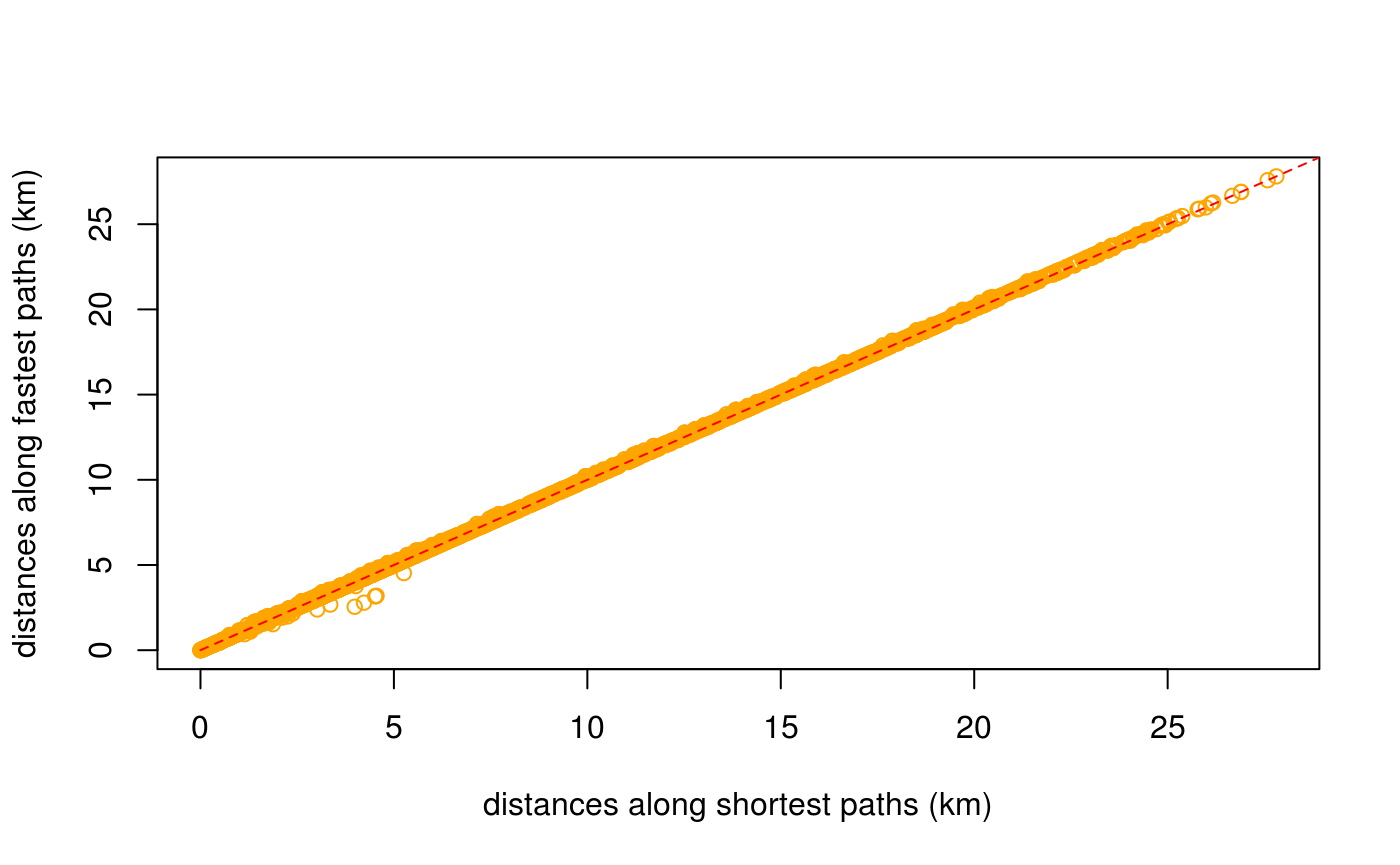
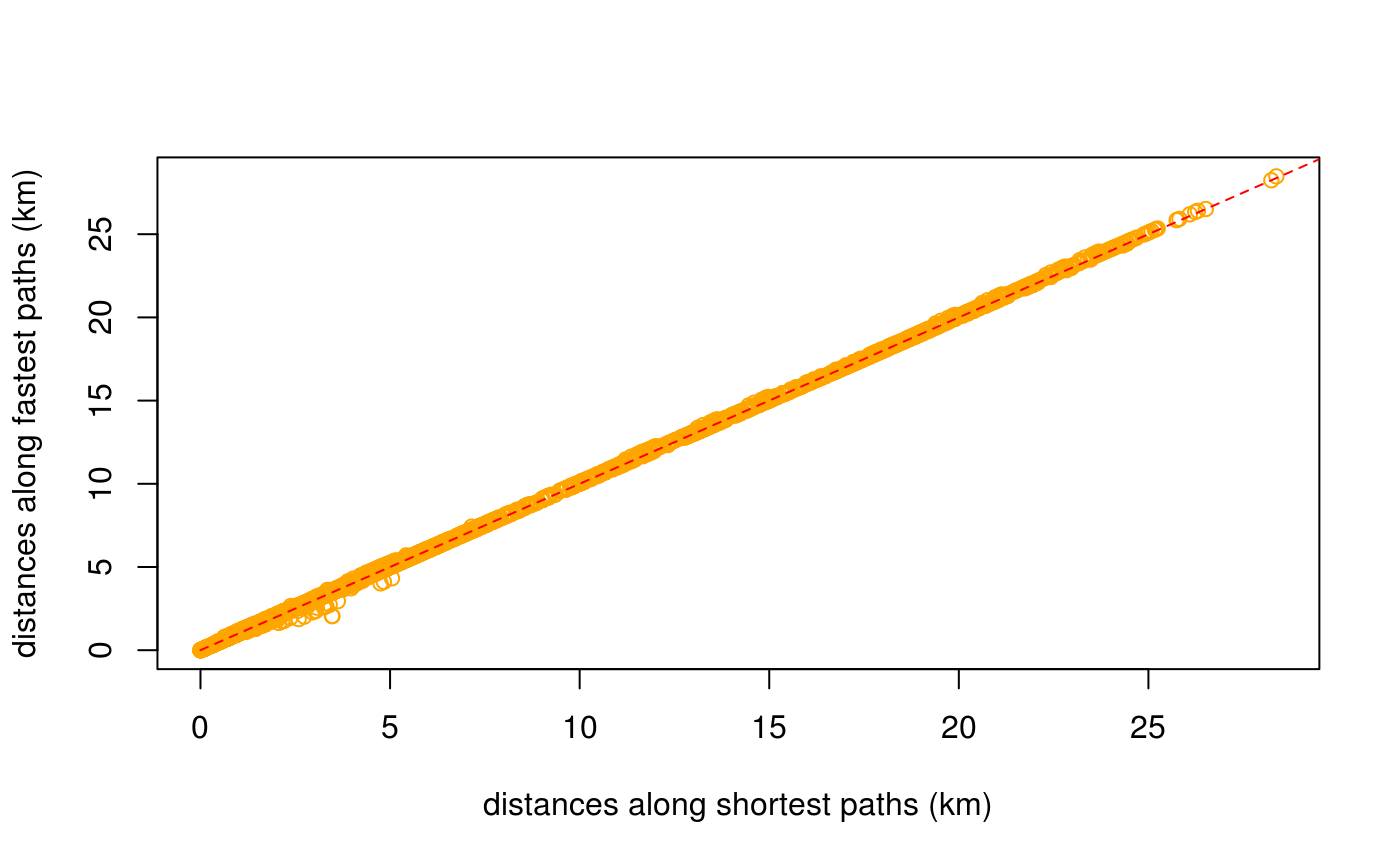
Built site for dodgr: 0.1.3.3@299abf0

diff --git a/articles/dodgr.html b/articles/dodgr.html
@@ -68,7 +68,7 @@
       <h1>dodgr</h1>
                         <h4 class="author">Mark Padgham</h4>
             
-            <h4 class="date">2019-05-05</h4>
+            <h4 class="date">2019-05-09</h4>
       
       <small class="dont-index">Source: <a href="https://github.com/ATFutures/dodgr/blob/master/vignettes/dodgr.Rmd"><code>vignettes/dodgr.Rmd</code></a></small>
       <div class="hidden name"><code>dodgr.Rmd</code></div>
@@ -343,7 +343,7 @@ Figure 2: A <strong>dual</strong>-weighted, directed graph in which the weights 
 <p>The <code>dodgr</code> packages includes a function to select a random connected portion of graph including a specified number of vertices. This function is used in the <code><a href="../reference/compare_heaps.html">compare_heaps()</a></code> function described below, but is also useful for general statistical analyses of large graphs which may otherwise take too long to compute.</p>
 <div class="sourceCode" id="cb59"><pre class="sourceCode r"><code class="sourceCode r"><a class="sourceLine" id="cb59-1" data-line-number="1">graph_sub &lt;-<span class="st"> </span><span class="kw"><a href="../reference/dodgr_sample.html">dodgr_sample</a></span> (graph, <span class="dt">nverts =</span> <span class="dv">100</span>)</a>
 <a class="sourceLine" id="cb59-2" data-line-number="2"><span class="kw"><a href="https://www.rdocumentation.org/packages/base/topics/nrow">nrow</a></span> (graph_sub)</a></code></pre></div>
-<pre><code>## [1] 197</code></pre>
+<pre><code>## [1] 199</code></pre>
 <p>The random sample has around twice as many edges as vertices, in accordance with the statistics calculated above.</p>
 <div class="sourceCode" id="cb61"><pre class="sourceCode r"><code class="sourceCode r"><a class="sourceLine" id="cb61-1" data-line-number="1"><span class="kw"><a href="https://www.rdocumentation.org/packages/base/topics/nrow">nrow</a></span> (<span class="kw"><a href="../reference/dodgr_vertices.html">dodgr_vertices</a></span> (graph_sub))</a></code></pre></div>
 <pre><code>## [1] 100</code></pre>
@@ -422,29 +422,29 @@ Figure 2: A <strong>dual</strong>-weighted, directed graph in which the weights 
 <pre><code>##                                                                                   test
 ## 12                  d &lt;- igraph::distances(igr, v = from_id, to = to_id, mode = "out")
 ## 6       d &lt;- dodgr_dists(graph_contracted, from = from_id, to = to_id, heap = "BHeap")
-## 7       d &lt;- dodgr_dists(graph_contracted, from = from_id, to = to_id, heap = "FHeap")
-## 8     d &lt;- dodgr_dists(graph_contracted, from = from_id, to = to_id, heap = "TriHeap")
 ## 9  d &lt;- dodgr_dists(graph_contracted, from = from_id, to = to_id, heap = "TriHeapExt")
 ## 10     d &lt;- dodgr_dists(graph_contracted, from = from_id, to = to_id, heap = "Heap23")
-## 1                  d &lt;- dodgr_dists(graph, from = from_id, to = to_id, heap = "BHeap")
 ## 2                  d &lt;- dodgr_dists(graph, from = from_id, to = to_id, heap = "FHeap")
 ## 3                d &lt;- dodgr_dists(graph, from = from_id, to = to_id, heap = "TriHeap")
 ## 4             d &lt;- dodgr_dists(graph, from = from_id, to = to_id, heap = "TriHeapExt")
 ## 5                 d &lt;- dodgr_dists(graph, from = from_id, to = to_id, heap = "Heap23")
+## 7       d &lt;- dodgr_dists(graph_contracted, from = from_id, to = to_id, heap = "FHeap")
+## 8     d &lt;- dodgr_dists(graph_contracted, from = from_id, to = to_id, heap = "TriHeap")
 ## 11        d &lt;- dodgr_dists(graph_contracted, from = from_id, to = to_id, heap = "set")
+## 1                  d &lt;- dodgr_dists(graph, from = from_id, to = to_id, heap = "BHeap")
 ##    replications elapsed relative user.self sys.self user.child sys.child
-## 12            1   0.001        1     0.000        0          0         0
-## 6             1   0.002        2     0.000        0          0         0
-## 7             1   0.002        2     0.004        0          0         0
-## 8             1   0.002        2     0.000        0          0         0
-## 9             1   0.002        2     0.000        0          0         0
-## 10            1   0.002        2     0.004        0          0         0
-## 1             1   0.003        3     0.004        0          0         0
-## 2             1   0.003        3     0.004        0          0         0
-## 3             1   0.003        3     0.004        0          0         0
-## 4             1   0.003        3     0.004        0          0         0
-## 5             1   0.003        3     0.004        0          0         0
-## 11            1   0.003        3     0.004        0          0         0</code></pre>
+## 12            1   0.001        1     0.004    0.000          0         0
+## 6             1   0.002        2     0.004    0.000          0         0
+## 9             1   0.002        2     0.000    0.000          0         0
+## 10            1   0.002        2     0.004    0.000          0         0
+## 2             1   0.003        3     0.004    0.000          0         0
+## 3             1   0.003        3     0.004    0.000          0         0
+## 4             1   0.003        3     0.004    0.000          0         0
+## 5             1   0.003        3     0.000    0.000          0         0
+## 7             1   0.003        3     0.004    0.000          0         0
+## 8             1   0.003        3     0.004    0.000          0         0
+## 11            1   0.003        3     0.004    0.000          0         0
+## 1             1   0.004        4     0.000    0.004          0         0</code></pre>
 <p>The key column of that <code>data.frame</code> is <code>relative</code>, which quantifies the relative performance of each test in relation to the best which is given a score of 1. <code>dodgr</code> using the default <code>heap = "BHeap"</code>, which is a binary heap priority queue, performs faster than <code>igraph</code> <span class="citation">(Csardi and Nepusz 2006)</span> for these graphs. Different kind of graphs will perform differently with different priority queue structures, and this function enables users to empirically discern the optimal heap for their kind of graph.</p>
 <p>Note, however, that this is not an entirely fair comparison, because <code>dodgr</code> calculates dual-weighted distances, whereas <code>igraph</code>—and indeed all other <strong>R</strong> packages—only directly calculate distances based on a single set of weights. Implementing dual-weighted routing in these cases requires explicitly re-tracing all paths and summing the second set of weights along each path. A time comparison in that case would be very strongly in favour of <code>dodgr</code>. Moreover, <code>dodgr</code> can convert graphs to contracted form through removing redundant vertices, as detailed in the following section. Doing so greatly improves performance with respect to <code>igraph</code>.</p>
 <p>For those wishing to do explicit comparisons themselves, the following code generates the <code>igraph</code> equivalent of <code><a href="../reference/dodgr_dists.html">dodgr_dists()</a></code>, although of course for single-weighted graphs only:</p>
@@ -481,10 +481,10 @@ Figure 3: <strong>(A)</strong> Vertex#2 is redundant for routing calculations fr
 <a class="sourceLine" id="cb85-5" data-line-number="5">                       d2 &lt;-<span class="st"> </span><span class="kw"><a href="../reference/dodgr_dists.html">dodgr_dists</a></span> (graph, <span class="dt">from =</span> from, <span class="dt">to =</span> to),</a>
 <a class="sourceLine" id="cb85-6" data-line-number="6">                       <span class="dt">replications =</span> <span class="dv">2</span>)</a></code></pre></div>
 <pre><code>##                                             test replications elapsed
-## 2 d2 &lt;- dodgr_dists(graph, from = from, to = to)            2   0.047
+## 2 d2 &lt;- dodgr_dists(graph, from = from, to = to)            2   0.049
 ## 1   d2 &lt;- dodgr_dists(grc, from = from, to = to)            2   0.009
 ##   relative user.self sys.self user.child sys.child
-## 2    5.222     0.068        0          0         0
+## 2    5.444     0.068        0          0         0
 ## 1    1.000     0.012        0          0         0</code></pre>
 <p>And contracting the graph has a similar effect of speeding up pairwise routing between these 100 points. All routing algorithms scale non-linearly with size, and relative improvements in efficiency will be even greater for larger graphs.</p>
 <div id="routing-on-contracted-graphs" class="section level2">
@@ -497,11 +497,11 @@ Figure 3: <strong>(A)</strong> Vertex#2 is redundant for routing calculations fr
 <pre><code>## [1] 688</code></pre>
 <div class="sourceCode" id="cb89"><pre class="sourceCode r"><code class="sourceCode r"><a class="sourceLine" id="cb89-1" data-line-number="1">verts &lt;-<span class="st"> </span><span class="kw"><a href="https://www.rdocumentation.org/packages/base/topics/sample">sample</a></span> (<span class="kw"><a href="../reference/dodgr_vertices.html">dodgr_vertices</a></span> (graph)<span class="op">$</span>id, <span class="dt">size =</span> <span class="dv">100</span>)</a>
 <a class="sourceLine" id="cb89-2" data-line-number="2"><span class="kw"><a href="https://www.rdocumentation.org/packages/utils/topics/head">head</a></span> (verts) <span class="co"># a character vector</span></a></code></pre></div>
-<pre><code>## [1] "4046458348" "1161117704" "339574153"  "2398957706" "1388483615"
-## [6] "2195424909"</code></pre>
+<pre><code>## [1] "2608076417" "2398957653" "2398957667" "3697938721" "2195424979"
+## [6] "2398957749"</code></pre>
 <div class="sourceCode" id="cb91"><pre class="sourceCode r"><code class="sourceCode r"><a class="sourceLine" id="cb91-1" data-line-number="1">grc &lt;-<span class="st"> </span><span class="kw"><a href="../reference/dodgr_contract_graph.html">dodgr_contract_graph</a></span> (graph, verts)<span class="op">$</span>graph</a>
 <a class="sourceLine" id="cb91-2" data-line-number="2"><span class="kw"><a href="https://www.rdocumentation.org/packages/base/topics/nrow">nrow</a></span> (grc)</a></code></pre></div>
-<pre><code>## [1] 876</code></pre>
+<pre><code>## [1] 865</code></pre>
 <p>Retaining the nominated vertices yields a graph with considerably more edges than the fully contracted graph excluding these vertices. The <code><a href="../reference/dodgr_dists.html">dodgr_dists()</a></code> function can be applied to the latter graph to obtain accurate distances precisely routed between these points, yet using the speed advantages of graph contraction.</p>
 </div>
 </div>
@@ -542,85 +542,48 @@ Figure 3: <strong>(A)</strong> Vertex#2 is redundant for routing calculations fr
 <pre><code>## [1] 10</code></pre>
 <p>The result (<code>dp</code>) is a list of 10 items, each of which contains 5 vectors. An example is,</p>
 <div class="sourceCode" id="cb98"><pre class="sourceCode r"><code class="sourceCode r"><a class="sourceLine" id="cb98-1" data-line-number="1">dp [[<span class="dv">1</span>]] [[<span class="dv">1</span>]]</a></code></pre></div>
-<pre><code>##   [1] "3697937603" "3697937572" "3697937579" "3697937604" "3697937585"
-##   [6] "3697937589" "3697937601" "3697937588" "3697937573" "3697937571"
-##  [11] "3697937610" "3697937615" "3697937614" "3697937613" "3697937611"
-##  [16] "3697937612" "3697937616" "3697937609" "3697937608" "3697937607"
-##  [21] "1376769110" "1376768828" "1376768464" "1376768862" "1376768398"
-##  [26] "1376768975" "1376768614" "1376769209" "1376768918" "1376768559"
-##  [31] "2717241302" "2717241300" "2717241331" "2717241317" "2717241339"
-##  [36] "2717241332" "2717241309" "2717241321" "2717241306" "2717241323"
-##  [41] "2717241312" "1376768738" "1376768369" "1376768946" "1376768586"
-##  [46] "1560930407" "1376768478" "1376769039" "1376768690" "1376768324"
-##  [51] "1376768985" "1376768626" "339574829"  "339574828"  "1560930420"
-##  [56] "1560930408" "339574827"  "339574826"  "339574825"  "339574824" 
-##  [61] "339574823"  "1668645472" "1668645470" "3818714154" "339574820" 
-##  [66] "339574819"  "3818714155" "2398957686" "339574631"  "2717241324"
-##  [71] "1148814809" "2398957654" "2398957639" "339574630"  "339574629" 
-##  [76] "2398957619" "339574628"  "1427115955" "338905128"  "1376769164"
-##  [81] "1376768779" "338905219"  "2398957589" "2398957588" "1376768510"
-##  [86] "1376769086" "2398957584" "338905220"  "2398957576" "1427594104"
-##  [91] "2398957571" "2398957570" "2398957568" "338905221"  "2398957564"
-##  [96] "338905227"  "2398957561" "2398957557" "2398957549" "338905245" 
-## [101] "2398957546" "2398957544" "2398957543" "2398957542" "676635860" 
-## [106] "2398957537" "2398957532" "2398957526" "2398957521" "676875267" 
-## [111] "2398957539" "2419196948" "313796433"  "1376768773" "2398957554"
-## [116] "2398957555" "313796432"  "3338186986" "2398957563" "2398957567"
-## [121] "313796431"  "313796430"  "1376769158" "1427594112" "313796429" 
-## [126] "2398957603" "313796428"  "313796427"  "1128374399" "313796426" 
-## [131] "1128374495" "2398957696" "2398957701" "1376768565" "2398957713"
-## [136] "1376769010" "2398957720" "313796425"  "2398957722" "1376768805"
-## [141] "245631169"  "676875269"  "1128374442" "1376769190" "1128374412"
-## [146] "1128374373" "1128374467" "1376768504" "1161117304" "1376768867"
-## [151] "676875274"  "1376768293" "1376768650" "1128374447" "1376769132"
-## [156] "676875308"  "1376768537" "1161117735" "1376768899" "1161117723"
-## [161] "1376768325" "1376768597" "1357430113" "1376768957" "676875276" 
-## [166] "1376768380" "1357430014" "1376768749" "1376769220" "1128374360"
-## [171] "1161117548" "1357430213" "676875279"  "1128374362" "1376768627"
-## [176] "245631194"  "1376768986" "1376768409" "1128374418" "977461235" 
-## [181] "1376768691" "2398957816" "1128374394" "2398957826" "2398957837"
-## [186] "1376769040" "1376768479" "677638770"  "1376768821" "1128374434"
-## [191] "2398957895" "2398957896" "1376768842" "1128374455" "1376768355"
-## [196] "677638819"  "1376768724" "2398957939" "1161117636" "2398957968"
-## [201] "1128374490" "2398958005" "2398958010" "1161117434" "677638818" 
-## [206] "2398958040" "2398958041" "2398958043" "2398958044" "1161117327"
-## [211] "1128374463" "1691496075" "1691496072" "1161117278" "1691496070"
-## [216] "677638820"  "1161117679" "1691496079" "1161117383" "1691495929"
-## [221] "1161117501" "1376769146" "1161117440" "1691495934" "1161117756"
-## [226] "1691495939" "1161117392" "1691495943" "1691495952" "1161117526"
-## [231] "1691495982" "1161117586" "1161117652" "677638817"  "1691495985"
-## [236] "1691495910" "1161117288" "1691496204" "1691496236" "1161117404"
-## [241] "1691496237" "1691496247" "1161117704" "1691496243" "1691496251"
-## [246] "1161117663" "1691495937" "1691495665" "1161117302" "1691495672"
-## [251] "1161117452" "1691495677" "1691495680" "1691495693" "1161117543"
-## [256] "1691495696" "245631502"  "1691495698" "1161117349" "1691495717"
-## [261] "1691495720" "1691495723" "677638823"  "677638822"  "1691495727"
-## [266] "676875383"  "1691496081" "1161117620" "1161117473" "1691496086"
-## [271] "677638821"  "1691496190" "1691496364" "1161117772" "1161117358"
-## [276] "1161117413" "677638829"  "1691496367" "1691495745" "1691496372"
-## [281] "1691496406" "1691496404" "1691496375" "1691496407" "677638825" 
-## [286] "1691496409" "1161117556" "1691496412" "677638828"  "1691496416"
-## [291] "677638827"  "3544918684" "3544918688" "3544918690" "3544918692"
-## [296] "3544918695" "1691496284" "3544918699" "3544918701" "3544918705"
-## [301] "3544918708" "3544918716" "3544918720" "3544918725" "3544918731"
-## [306] "3544918732" "3544918733" "3544918735" "3544918740" "3544918741"
-## [311] "3544918742" "3544918739" "3544918737" "3544918736" "3544918738"
-## [316] "3544918734" "3544918730" "3544918729" "3544918728" "3544918727"
-## [321] "3544918722" "3544918718" "3544918717" "3544918715" "3544918714"
-## [326] "3544918712" "3544918710" "3544918709" "3544918711" "3544918713"
-## [331] "3544918719" "3544918726" "3544918745" "3544918749" "3544918756"
-## [336] "3544918757" "3544918760" "3544918764" "3544918770" "3544918772"</code></pre>
+<pre><code>##   [1] "2398957939" "1376768724" "677638819"  "1376768355" "1128374455"
+##   [6] "1376768842" "2398957896" "2398957895" "1128374434" "1376768821"
+##  [11] "677638770"  "1376768479" "1376769040" "2398957837" "2398957826"
+##  [16] "1128374394" "2398957816" "1376768691" "977461235"  "1128374418"
+##  [21] "1376768409" "1376768986" "245631194"  "1376768627" "1128374362"
+##  [26] "676875279"  "1357430213" "1161117548" "1128374360" "1376769220"
+##  [31] "1376768749" "1357430014" "1376768380" "676875276"  "1376768957"
+##  [36] "1357430113" "1376768597" "1376768325" "1161117723" "1376768899"
+##  [41] "1161117735" "1376768537" "676875308"  "1376769132" "1128374447"
+##  [46] "1376768650" "1376768293" "676875274"  "1376768867" "1161117304"
+##  [51] "1376768504" "1128374467" "1128374373" "1128374412" "1376769190"
+##  [56] "1128374442" "676875269"  "245631169"  "1376768805" "2398957722"
+##  [61] "313796425"  "2398957720" "1376769010" "2398957713" "1376768565"
+##  [66] "2398957701" "2398957696" "1128374495" "313796426"  "1128374399"
+##  [71] "313796427"  "313796428"  "2398957603" "313796429"  "1427594112"
+##  [76] "1376769158" "313796430"  "313796431"  "2398957567" "2398957563"
+##  [81] "3338186986" "313796432"  "2398957555" "2398957554" "1376768773"
+##  [86] "313796433"  "2419196948" "2398957539" "676875267"  "2398957521"
+##  [91] "2398957526" "2398957532" "2398957537" "676635860"  "2398957542"
+##  [96] "2398957543" "2398957544" "2398957546" "338905245"  "2398957549"
+## [101] "2398957557" "2398957561" "338905227"  "2398957564" "338905221" 
+## [106] "2398957568" "2398957570" "2398957571" "1427594104" "2398957576"
+## [111] "338905220"  "2398957584" "1376769086" "1376768510" "2398957588"
+## [116] "2398957589" "338905219"  "1376768779" "1376769164" "338905128" 
+## [121] "2398957593" "1376768571" "2398957595" "338905105"  "338905103" 
+## [126] "338905101"  "2398957611" "1427115973" "2398957612" "2398957616"
+## [131] "338905098"  "2398957623" "338905039"  "2398957626" "1427115977"
+## [136] "338905037"  "2398957627" "1427115981" "2398957629" "1427115983"
+## [141] "338905036"  "1148814692" "2398957641" "2398957665" "676875127" 
+## [146] "2398957674" "2398957680" "338905033"  "1148814852" "1148815109"
+## [151] "339577292"  "338905032"  "1376768330" "1148815140"</code></pre>
 <p>For spatial graphs, the coordinates of these paths can be obtained by extracting the vertices with <code><a href="../reference/dodgr_vertices.html">dodgr_vertices()</a></code> and matching the vertex IDs:</p>
 <div class="sourceCode" id="cb100"><pre class="sourceCode r"><code class="sourceCode r"><a class="sourceLine" id="cb100-1" data-line-number="1">verts &lt;-<span class="st"> </span><span class="kw"><a href="../reference/dodgr_vertices.html">dodgr_vertices</a></span> (graph)</a>
 <a class="sourceLine" id="cb100-2" data-line-number="2">path1 &lt;-<span class="st"> </span>verts [<span class="kw"><a href="https://www.rdocumentation.org/packages/base/topics/match">match</a></span> (dp [[<span class="dv">1</span>]] [[<span class="dv">1</span>]], verts<span class="op">$</span>id), ]</a>
 <a class="sourceLine" id="cb100-3" data-line-number="3"><span class="kw"><a href="https://www.rdocumentation.org/packages/utils/topics/head">head</a></span> (path1)</a></code></pre></div>
-<pre><code>##              id        x        y component    n
-## 4998 3697937603 76.46796 15.33094         1 2465
-## 5000 3697937572 76.46803 15.33072         1 2466
-## 5002 3697937579 76.46796 15.33061         1 2467
-## 5004 3697937604 76.46793 15.33061         1 2468
-## 5006 3697937585 76.46792 15.33052         1 2469
-## 5008 3697937589 76.46804 15.33051         1 2470</code></pre>
+<pre><code>##             id        x        y component   n
+## 874 2398957939 76.51967 15.33729         1 448
+## 872 1376768724 76.51954 15.33712         1 447
+## 870  677638819 76.51940 15.33690         1 446
+## 868 1376768355 76.51877 15.33549         1 445
+## 866 1128374455 76.51850 15.33479         1 444
+## 864 1376768842 76.51784 15.33326         1 443</code></pre>
 <p>Paths calculated on contracted graphs will of course have fewer vertices than those calculated on full graphs.</p>
 </div>
 <div id="aggregated-flows" class="section level1">
@@ -664,7 +627,7 @@ Figure 3: <strong>(A)</strong> Vertex#2 is redundant for routing calculations fr
 <p>Most flows are zero because they have only been calculated between very few points in the graph.</p>
 <div class="sourceCode" id="cb105"><pre class="sourceCode r"><code class="sourceCode r"><a class="sourceLine" id="cb105-1" data-line-number="1"><span class="kw"><a href="https://www.rdocumentation.org/packages/base/topics/summary">summary</a></span> (graph_f<span class="op">$</span>flow)</a></code></pre></div>
 <pre><code>##    Min. 1st Qu.  Median    Mean 3rd Qu.    Max. 
-##   0.000   0.000   0.000   4.318   0.000  82.579</code></pre>
+##   0.000   0.000   0.000   3.564   0.000  55.251</code></pre>
 </div>
 <div id="flow-dispersal" class="section level2">
 <h2 class="hasAnchor">
@@ -674,7 +637,7 @@ Figure 3: <strong>(A)</strong> Vertex#2 is redundant for routing calculations fr
 <a class="sourceLine" id="cb107-2" data-line-number="2">graph_f &lt;-<span class="st"> </span><span class="kw"><a href="../reference/dodgr_flows_disperse.html">dodgr_flows_disperse</a></span> (graph, <span class="dt">from =</span> from, <span class="dt">dens =</span> dens)</a>
 <a class="sourceLine" id="cb107-3" data-line-number="3"><span class="kw"><a href="https://www.rdocumentation.org/packages/base/topics/summary">summary</a></span> (graph_f<span class="op">$</span>flow)</a></code></pre></div>
 <pre><code>##      Min.   1st Qu.    Median      Mean   3rd Qu.      Max. 
-## 0.000e+00 0.000e+00 0.000e+00 1.242e-06 0.000e+00 2.461e-03</code></pre>
+## 0.000e+00 0.000e+00 0.000e+00 7.097e-06 0.000e+00 1.629e-02</code></pre>
 </div>
 <div id="merging-directed-flows" class="section level2">
 <h2 class="hasAnchor">
@@ -684,7 +647,7 @@ Figure 3: <strong>(A)</strong> Vertex#2 is redundant for routing calculations fr
 <p>Resultant graphs produced by <code><a href="../reference/merge_directed_flows.html">merge_directed_flows()</a></code> only include those edges having non-zero flows, and so:</p>
 <div class="sourceCode" id="cb110"><pre class="sourceCode r"><code class="sourceCode r"><a class="sourceLine" id="cb110-1" data-line-number="1"><span class="kw"><a href="https://www.rdocumentation.org/packages/base/topics/nrow">nrow</a></span> (graph_f); <span class="kw"><a href="https://www.rdocumentation.org/packages/base/topics/nrow">nrow</a></span> (graph_undir) <span class="co"># the latter is much smaller</span></a></code></pre></div>
 <pre><code>## [1] 5845</code></pre>
-<pre><code>## [1] 1737</code></pre>
+<pre><code>## [1] 2072</code></pre>
 <p>The resultant graph can readily be merged with the original graph to regain the original data on vertex coordinates through</p>
 <div class="sourceCode" id="cb113"><pre class="sourceCode r"><code class="sourceCode r"><a class="sourceLine" id="cb113-1" data-line-number="1">graph &lt;-<span class="st"> </span>graph [graph_undir<span class="op">$</span>edge_id, ]</a>
 <a class="sourceLine" id="cb113-2" data-line-number="2">graph<span class="op">$</span>flow &lt;-<span class="st"> </span>graph_undir<span class="op">$</span>flow</a></code></pre></div>

diff --git a/articles/times.html b/articles/times.html
@@ -68,7 +68,7 @@
       <h1>Street networks and time-based routing</h1>
                         <h4 class="author">Mark Padgham</h4>
             
-            <h4 class="date">2019-05-05</h4>
+            <h4 class="date">2019-05-09</h4>
       
       <small class="dont-index">Source: <a href="https://github.com/ATFutures/dodgr/blob/master/vignettes/times.Rmd"><code>vignettes/times.Rmd</code></a></small>
       <div class="hidden name"><code>times.Rmd</code></div>
@@ -233,11 +233,11 @@ Figure 1: Graph modification to account for turn angles, which introduces the ad
 <p><img src="times_files/figure-html/shortest-vs-fastest-1.png" width="700"></p>
 <p>The average distance between the two (in metres) is:</p>
 <div class="sourceCode" id="cb11"><pre class="sourceCode r"><code class="sourceCode r"><a class="sourceLine" id="cb11-1" data-line-number="1"><span class="kw"><a href="https://www.rdocumentation.org/packages/base/topics/mean">mean</a></span> (<span class="kw"><a href="https://www.rdocumentation.org/packages/base/topics/MathFun">abs</a></span> (d_time <span class="op">-</span><span class="st"> </span>d_dist), <span class="dt">na.rm =</span> <span class="ot">TRUE</span>)</a></code></pre></div>
-<pre><code>## [1] 31.13005</code></pre>
+<pre><code>## [1] 30.24067</code></pre>
 <p>The plot reveals that shortest distances are indeed somewhat shorter than distances along fastest paths, but also that some fastest paths are actually shorter than shortest paths:</p>
 <div class="sourceCode" id="cb13"><pre class="sourceCode r"><code class="sourceCode r"><a class="sourceLine" id="cb13-1" data-line-number="1">index &lt;-<span class="st"> </span><span class="kw"><a href="https://www.rdocumentation.org/packages/base/topics/which">which</a></span> (<span class="op">!</span><span class="kw"><a href="https://www.rdocumentation.org/packages/base/topics/NA">is.na</a></span> (d_time) <span class="op">&amp;</span><span class="st"> </span><span class="op">!</span><span class="kw"><a href="https://www.rdocumentation.org/packages/base/topics/NA">is.na</a></span> (d_dist))</a>
 <a class="sourceLine" id="cb13-2" data-line-number="2"><span class="kw"><a href="https://www.rdocumentation.org/packages/base/topics/length">length</a></span> (<span class="kw"><a href="https://www.rdocumentation.org/packages/base/topics/which">which</a></span> (d_time [index] <span class="op">&lt;</span><span class="st"> </span>d_dist [index])) <span class="op">/</span><span class="st"> </span><span class="kw"><a href="https://www.rdocumentation.org/packages/base/topics/length">length</a></span> (index)</a></code></pre></div>
-<pre><code>## [1] 0.006610995</code></pre>
+<pre><code>## [1] 0.0127551</code></pre>
 <p>While <code>dodgr</code> and indeed all routing engines attempt to maximally reconcile differences between fastest and shortest routes, there nevertheless remain important discrepancies. Foremost among these, and the primary reason why some fastest routes may in fact be shorter than shortest routes, is that fastest routes allocate preferences for different kinds of way based both on the <code>value</code> column in the <code>weighting_profiles$weighting_profiles</code> table illustrated above, and on the actual maximum speed of a given edge, which itself may be a combination of maximum speeds as specified in OSM itself, maximum speeds from the <code>weighting_profiles$weighting_profiles</code> table, or values specific to a given surface. The result is that some unique combination of maximum speeds along a network may lead to <em>fastest</em> routes being preferentially directed along a path that is actually shorter than the direct shortest path which is calculated independent of maximum speed values.</p>
 <p>Such discrepancies are important in understanding differences in routes <em>times</em> calculated along shortest versus fastest paths. These times can be calculated (in seconds) with the <a href="https://atfutures.github.io/dodgr/reference/dodgr_times.html"><code><a href="../reference/dodgr_times.html">dodgr_times()</a></code></a> function:</p>
 <div class="sourceCode" id="cb15"><pre class="sourceCode r"><code class="sourceCode r"><a class="sourceLine" id="cb15-1" data-line-number="1">t_dist &lt;-<span class="st"> </span><span class="kw"><a href="../reference/dodgr_times.html">dodgr_times</a></span> (graph, <span class="dt">from =</span> from, <span class="dt">to =</span> to, <span class="dt">shortest =</span> <span class="ot">TRUE</span>) <span class="co"># default</span></a>
@@ -248,11 +248,11 @@ Figure 1: Graph modification to account for turn angles, which introduces the ad
 <a class="sourceLine" id="cb15-6" data-line-number="6"><span class="kw"><a href="https://www.rdocumentation.org/packages/graphics/topics/lines">lines</a></span> (<span class="dv">0</span><span class="op">:</span><span class="dv">100</span>, <span class="dv">0</span><span class="op">:</span><span class="dv">100</span>, <span class="dt">col =</span> <span class="st">"red"</span>, <span class="dt">lty =</span> <span class="dv">2</span>)</a></code></pre></div>
 <p><img src="times_files/figure-html/shortest-vs-fastest-times-1.png" width="700"></p>
 <div class="sourceCode" id="cb16"><pre class="sourceCode r"><code class="sourceCode r"><a class="sourceLine" id="cb16-1" data-line-number="1"><span class="kw"><a href="https://www.rdocumentation.org/packages/base/topics/mean">mean</a></span> (<span class="kw"><a href="https://www.rdocumentation.org/packages/base/topics/MathFun">abs</a></span> (t_time <span class="op">-</span><span class="st"> </span>t_dist), <span class="dt">na.rm =</span> <span class="ot">TRUE</span>)</a></code></pre></div>
-<pre><code>## [1] 127.565</code></pre>
+<pre><code>## [1] 118.5743</code></pre>
 <p>As above, times along fastest paths are generally less than times along shortest paths, although there are again a few exceptions:</p>
 <div class="sourceCode" id="cb18"><pre class="sourceCode r"><code class="sourceCode r"><a class="sourceLine" id="cb18-1" data-line-number="1">index &lt;-<span class="st"> </span><span class="kw"><a href="https://www.rdocumentation.org/packages/base/topics/which">which</a></span> (<span class="op">!</span><span class="kw"><a href="https://www.rdocumentation.org/packages/base/topics/NA">is.na</a></span> (t_time) <span class="op">&amp;</span><span class="st"> </span><span class="op">!</span><span class="kw"><a href="https://www.rdocumentation.org/packages/base/topics/NA">is.na</a></span> (t_dist))</a>
 <a class="sourceLine" id="cb18-2" data-line-number="2"><span class="kw"><a href="https://www.rdocumentation.org/packages/base/topics/length">length</a></span> (<span class="kw"><a href="https://www.rdocumentation.org/packages/base/topics/which">which</a></span> (t_dist [index] <span class="op">&lt;</span><span class="st"> </span>t_time [index])) <span class="op">/</span><span class="st"> </span><span class="kw"><a href="https://www.rdocumentation.org/packages/base/topics/length">length</a></span> (index)</a></code></pre></div>
-<pre><code>## [1] 0.01078636</code></pre>
+<pre><code>## [1] 0.01628728</code></pre>
 <p>These results demonstrate how the combination of the <a href="https://atfutures.github.io/dodgr/reference/dodgr_distances.html"><code><a href="../reference/dodgr_distances.html">dodgr_distances()</a></code></a> and <a href="https://atfutures.github.io/dodgr/reference/dodgr_times.html"><code><a href="../reference/dodgr_times.html">dodgr_times()</a></code></a> functions enable calculation of both distances and times along both shortest and fastest paths.</p>
 <div id="time-based-paths-and-flow-aggregation" class="section level2">
 <h2 class="hasAnchor">

diff --git a/reference/compare_heaps.html b/reference/compare_heaps.html
@@ -154,31 +154,31 @@ fair comparisons, run only once or re-start the current R session.</p>
     <h2 class="hasAnchor" id="examples"><a class="anchor" href="#examples"></a>Examples</h2>
     <pre class="examples"><div class='input'><span class='no'>graph</span> <span class='kw'>&lt;-</span> <span class='fu'><a href='weight_streetnet.html'>weight_streetnet</a></span> (<span class='no'>hampi</span>)
 <span class='fu'>compare_heaps</span> (<span class='no'>graph</span>, <span class='kw'>nverts</span> <span class='kw'>=</span> <span class='fl'>1000</span>, <span class='kw'>replications</span> <span class='kw'>=</span> <span class='fl'>1</span>)</div><div class='output co'>#&gt;                                                                                   test
-#&gt; 11        d &lt;- dodgr_dists(graph_contracted, from = from_id, to = to_id, heap = "set")
 #&gt; 6       d &lt;- dodgr_dists(graph_contracted, from = from_id, to = to_id, heap = "BHeap")
+#&gt; 11        d &lt;- dodgr_dists(graph_contracted, from = from_id, to = to_id, heap = "set")
 #&gt; 7       d &lt;- dodgr_dists(graph_contracted, from = from_id, to = to_id, heap = "FHeap")
+#&gt; 10     d &lt;- dodgr_dists(graph_contracted, from = from_id, to = to_id, heap = "Heap23")
 #&gt; 8     d &lt;- dodgr_dists(graph_contracted, from = from_id, to = to_id, heap = "TriHeap")
 #&gt; 9  d &lt;- dodgr_dists(graph_contracted, from = from_id, to = to_id, heap = "TriHeapExt")
-#&gt; 10     d &lt;- dodgr_dists(graph_contracted, from = from_id, to = to_id, heap = "Heap23")
 #&gt; 12                  d &lt;- igraph::distances(igr, v = from_id, to = to_id, mode = "out")
 #&gt; 1                  d &lt;- dodgr_dists(graph, from = from_id, to = to_id, heap = "BHeap")
 #&gt; 2                  d &lt;- dodgr_dists(graph, from = from_id, to = to_id, heap = "FHeap")
-#&gt; 3                d &lt;- dodgr_dists(graph, from = from_id, to = to_id, heap = "TriHeap")
 #&gt; 5                 d &lt;- dodgr_dists(graph, from = from_id, to = to_id, heap = "Heap23")
+#&gt; 3                d &lt;- dodgr_dists(graph, from = from_id, to = to_id, heap = "TriHeap")
 #&gt; 4             d &lt;- dodgr_dists(graph, from = from_id, to = to_id, heap = "TriHeapExt")
 #&gt;    replications elapsed relative user.self sys.self user.child sys.child
-#&gt; 11            1   0.005      1.0     0.008    0.000          0         0
-#&gt; 6             1   0.006      1.2     0.008    0.000          0         0
-#&gt; 7             1   0.007      1.4     0.012    0.000          0         0
-#&gt; 8             1   0.007      1.4     0.008    0.004          0         0
-#&gt; 9             1   0.007      1.4     0.008    0.000          0         0
-#&gt; 10            1   0.007      1.4     0.012    0.000          0         0
-#&gt; 12            1   0.015      3.0     0.016    0.000          0         0
-#&gt; 1             1   0.025      5.0     0.044    0.000          0         0
-#&gt; 2             1   0.034      6.8     0.056    0.000          0         0
-#&gt; 3             1   0.034      6.8     0.060    0.000          0         0
-#&gt; 5             1   0.036      7.2     0.064    0.000          0         0
-#&gt; 4             1   0.039      7.8     0.040    0.000          0         0</div></pre>
+#&gt; 6             1   0.009    1.000     0.012    0.000          0         0
+#&gt; 11            1   0.009    1.000     0.012    0.000          0         0
+#&gt; 7             1   0.011    1.222     0.016    0.000          0         0
+#&gt; 10            1   0.011    1.222     0.016    0.000          0         0
+#&gt; 8             1   0.012    1.333     0.016    0.000          0         0
+#&gt; 9             1   0.012    1.333     0.012    0.000          0         0
+#&gt; 12            1   0.023    2.556     0.024    0.000          0         0
+#&gt; 1             1   0.036    4.000     0.056    0.004          0         0
+#&gt; 2             1   0.046    5.111     0.084    0.000          0         0
+#&gt; 5             1   0.047    5.222     0.088    0.000          0         0
+#&gt; 3             1   0.048    5.333     0.088    0.000          0         0
+#&gt; 4             1   0.052    5.778     0.052    0.000          0         0</div></pre>
   </div>
   <div class="col-md-3 hidden-xs hidden-sm" id="sidebar">
     <h2>Contents</h2>

diff --git a/reference/dodgr_sample.html b/reference/dodgr_sample.html
@@ -141,7 +141,7 @@ the requested <code>nverts</code>.</p>
     <h2 class="hasAnchor" id="examples"><a class="anchor" href="#examples"></a>Examples</h2>
     <pre class="examples"><div class='input'><span class='no'>graph</span> <span class='kw'>&lt;-</span> <span class='fu'><a href='weight_streetnet.html'>weight_streetnet</a></span> (<span class='no'>hampi</span>)
 <span class='fu'><a href='https://www.rdocumentation.org/packages/base/topics/nrow'>nrow</a></span> (<span class='no'>graph</span>) <span class='co'># 5,742</span></div><div class='output co'>#&gt; [1] 5845</div><div class='input'><span class='no'>graph</span> <span class='kw'>&lt;-</span> <span class='fu'>dodgr_sample</span> (<span class='no'>graph</span>, <span class='kw'>nverts</span> <span class='kw'>=</span> <span class='fl'>200</span>)
-<span class='fu'><a href='https://www.rdocumentation.org/packages/base/topics/nrow'>nrow</a></span> (<span class='no'>graph</span>) <span class='co'># generally around 400 edges</span></div><div class='output co'>#&gt; [1] 401</div><div class='input'><span class='fu'><a href='https://www.rdocumentation.org/packages/base/topics/nrow'>nrow</a></span> (<span class='fu'><a href='dodgr_vertices.html'>dodgr_vertices</a></span> (<span class='no'>graph</span>)) <span class='co'># 200</span></div><div class='output co'>#&gt; [1] 200</div></pre>
+<span class='fu'><a href='https://www.rdocumentation.org/packages/base/topics/nrow'>nrow</a></span> (<span class='no'>graph</span>) <span class='co'># generally around 400 edges</span></div><div class='output co'>#&gt; [1] 399</div><div class='input'><span class='fu'><a href='https://www.rdocumentation.org/packages/base/topics/nrow'>nrow</a></span> (<span class='fu'><a href='dodgr_vertices.html'>dodgr_vertices</a></span> (<span class='no'>graph</span>)) <span class='co'># 200</span></div><div class='output co'>#&gt; [1] 200</div></pre>
   </div>
   <div class="col-md-3 hidden-xs hidden-sm" id="sidebar">
     <h2>Contents</h2>

diff --git a/index.html b/index.html
@@ -514,7 +514,7 @@
 <td align="right">1</td>
 <td align="right">95.358362</td>
 <td align="right">105.953735</td>
-<td align="right">50.11696</td>
+<td align="right">8.400728</td>
 </tr>
 <tr class="even">
 <td align="right">1</td>
@@ -532,7 +532,7 @@
 <td align="right">1</td>
 <td align="right">95.358362</td>
 <td align="right">105.953735</td>
-<td align="right">42.03958</td>
+<td align="right">43.953418</td>
 </tr>
 <tr class="odd">
 <td align="right">1</td>
@@ -550,7 +550,7 @@
 <td align="right">1</td>
 <td align="right">6.399843</td>
 <td align="right">7.110936</td>
-<td align="right">50.11696</td>
+<td align="right">8.400728</td>
 </tr>
 <tr class="even">
 <td align="right">1</td>
@@ -568,7 +568,7 @@
 <td align="right">1</td>
 <td align="right">6.399843</td>
 <td align="right">7.110936</td>
-<td align="right">42.03958</td>
+<td align="right">43.953418</td>
 </tr>
 <tr class="odd">
 <td align="right">1</td>
@@ -586,7 +586,7 @@
 <td align="right">1</td>
 <td align="right">6.715106</td>
 <td align="right">7.461229</td>
-<td align="right">50.11696</td>
+<td align="right">8.400728</td>
 </tr>
 <tr class="even">
 <td align="right">1</td>
@@ -604,7 +604,7 @@
 <td align="right">1</td>
 <td align="right">6.715106</td>
 <td align="right">7.461229</td>
-<td align="right">42.03958</td>
+<td align="right">43.953418</td>
 </tr>
 </tbody>
 </table>

diff --git a/articles/benchmark.html b/articles/benchmark.html
@@ -68,7 +68,7 @@
       <h1>dodgr benchmark</h1>
                         <h4 class="author">Andreas Petutschnig</h4>
             
-            <h4 class="date">2019-05-05</h4>
+            <h4 class="date">2019-05-09</h4>
       
       <small class="dont-index">Source: <a href="https://github.com/ATFutures/dodgr/blob/master/vignettes/benchmark.Rmd"><code>vignettes/benchmark.Rmd</code></a></small>
       <div class="hidden name"><code>benchmark.Rmd</code></div>
